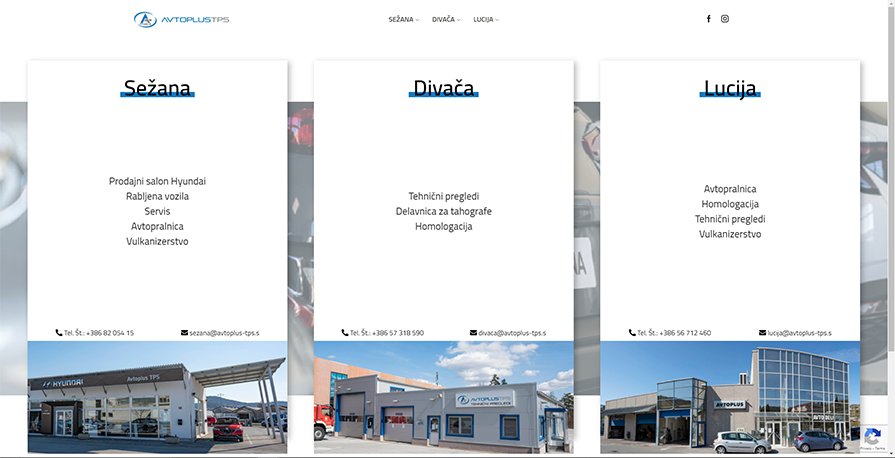
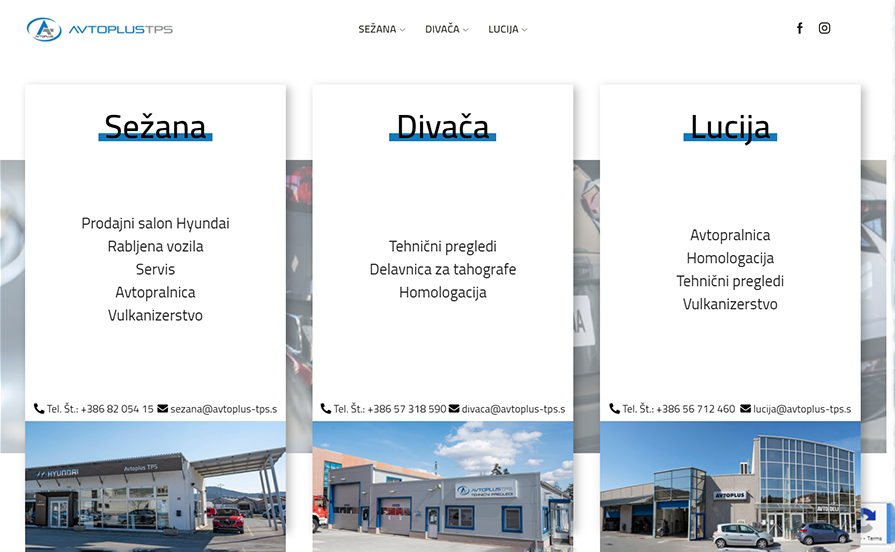
Avtoplus TPS image changed

diff --git a/html/portfolio.html b/html/portfolio.html
@@ -174,7 +174,7 @@
 								</figcaption>
 								<!-- Project Details Ends -->
 								<!-- Main Project Content Starts -->
-								<img src="img/projects/thebricks.png" alt="Portolio Image" />
+								<img src="img/projects/avtoplus-tps.png" alt="Portolio Image" />
 								<!-- Main Project Content Ends -->
 							</figure>
 						</li>
